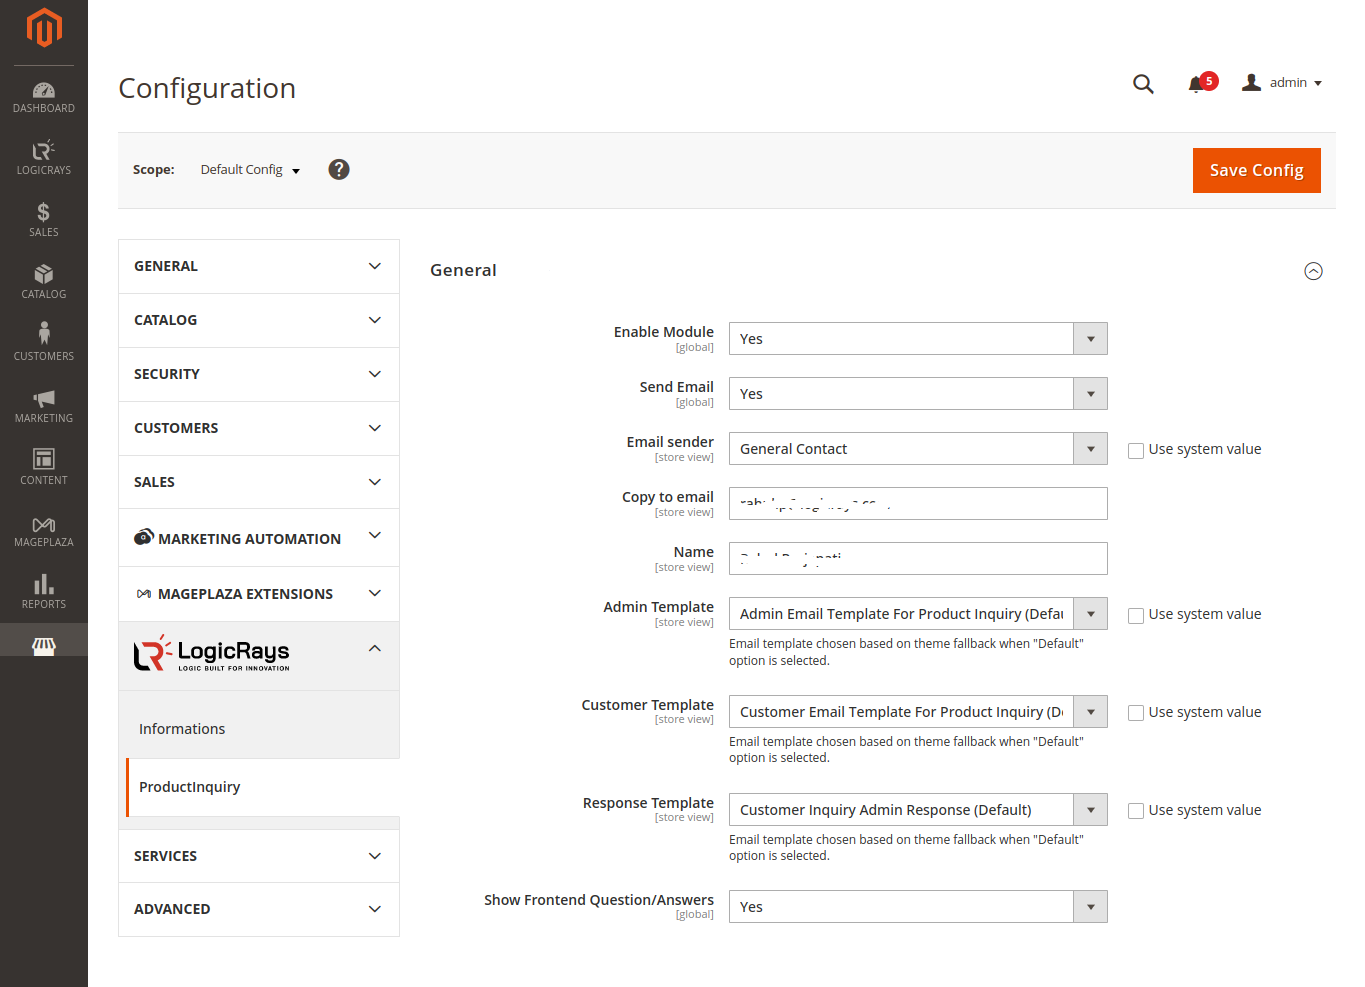
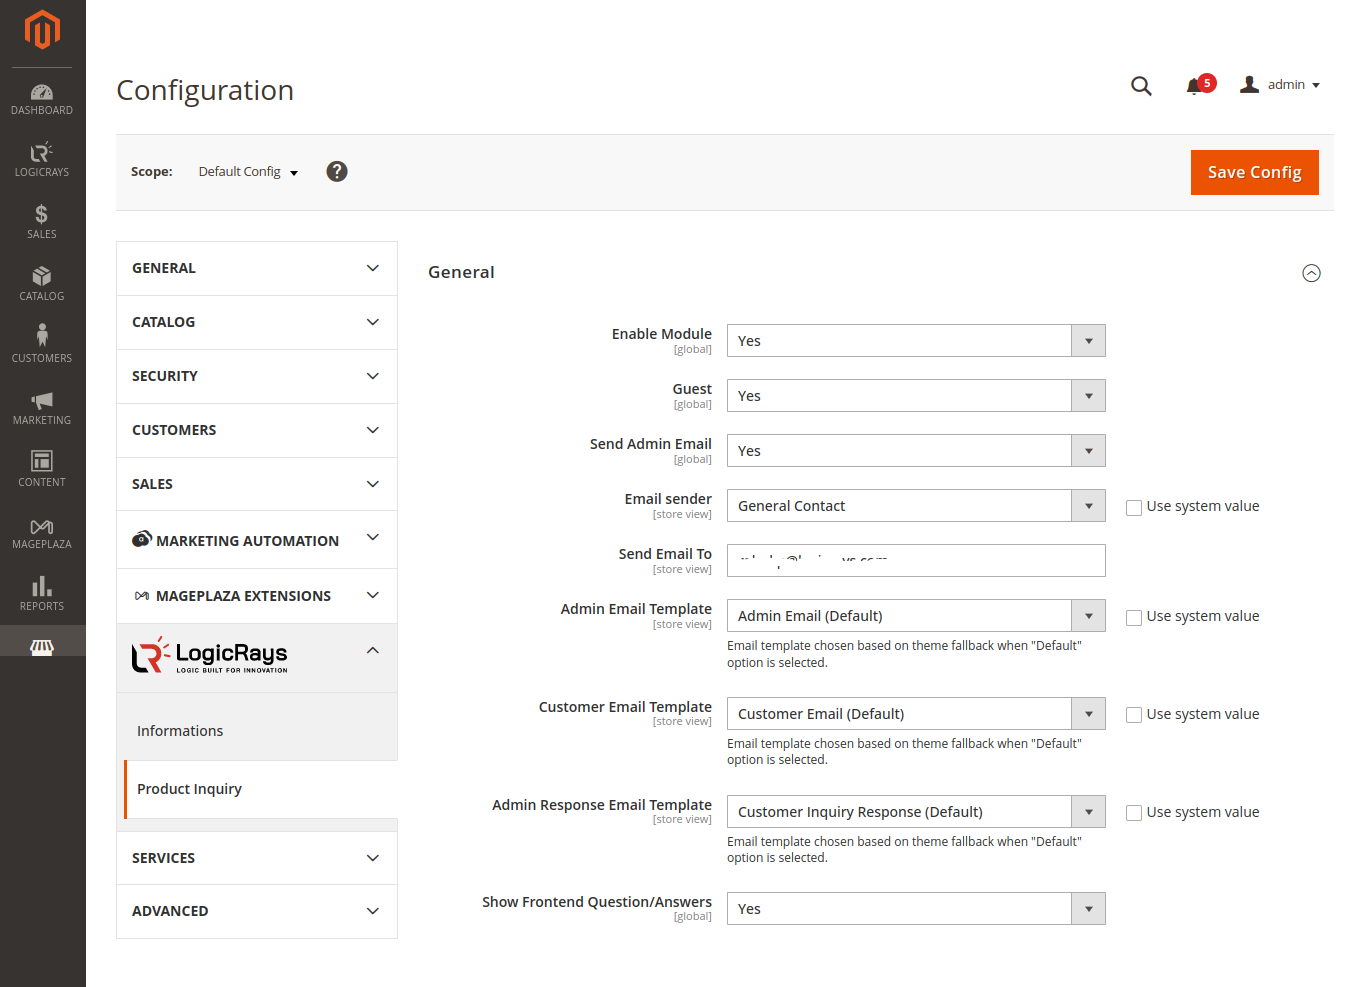
Create remaining doc of Product-Inquiry

diff --git a/docs/User_Guide/product-inquiry.rst b/docs/User_Guide/product-inquiry.rst
@@ -15,7 +15,7 @@ How to Configure
 #. Open Admin Panel, go to ``Logicrays > Settings > Configuration``
 
     .. figure:: img/product-inquiry/Dashboard-Magento-Admin.png
-        :alt: Configuration Settings.
+        :alt: Configuration Settings
 
 #. Now here you can see all the configure fields of the module. I'll explain them one by one at the end of the image.
 
@@ -25,14 +25,14 @@ How to Configure
     :guilabel:`General`
 
         * **Enable**: Choose ``Enable`` to use the functions of this module.
-        * **Send Email**: In this field, you have to choose either ``Yes`` or ``No``. If you choose ``Yes,`` then Mail Send functionality becomes active. And you have to configure the fields below.
+        * **Guest**: In this field, you have to choose either ``Yes`` or ``No``. If you choose ``Yes,`` then this functionality will work for guest customers.
+        * **Send Admin Email**: In this field, you have to choose either ``Yes`` or ``No``. If you choose ``Yes,`` then Mail Send functionality becomes active. And you have to configure the fields below.
         
             * **Email sender**: You have to select your email sender from the drop-down list.
-            * **Copy to email**: In this field, you have to enter your administrator's email address.
-            * **Name**: In this field, you have to enter your administrator's name.
-            * **Admin Template**: Select the admin template for mail.
-            * **Customer Template**: Select the customer template for mail.
-            * **Response Template**: Select the response template for mail.
+            * **Send Email To**: In this field, you have to enter your administrator's email address.
+            * **Admin Email Template**: Select the admin template for mail.
+            * **Customer Email Template**: Select the customer template for mail.
+            * **Admin Response Email Template**: Select the response template for mail.
         * **Show Frontend Question/Answers**: In this field, you have to choose either ``Yes`` or ``No``. If you choose ``Yes,`` then particular products' queries are shown in the front end. If you select ``no,`` then it will not.
     
     .. note::
@@ -47,12 +47,44 @@ How to Configure
     And open the product detail page of any product's. and scroll down your page here, you can see one tab that is ``Product Inquiry``. You must fill out a form in this tab if you have any questions.
 
     .. figure:: img/product-inquiry/Product-Detail-Page.png
-        :alt: Inquiry form
+        :alt: Product Details page
 
 #. After click on ``Send Inquiry`` button then your form successfully send the request to admin. Now you have to check Admin Request then go to ``Logicrays > ProductInquiry > ProductInquiry Details``.
+    
     see below image.
 
     .. figure:: img/product-inquiry/Dashboard-Magento-Admin_1.png
+        :alt: Dashboard-Magento-Admin
+
+#. You must be redirected to the admin side grid after clicking on the above path. see below image.
+
+    .. figure:: img/product-inquiry/Product-Admin-Grid.png
         :alt: Inquiry form
 
-#. You must be redirected to the admin side grid after clicking on the above path.
+#. By clicking the Edit button, you can now edit the record. The Edit form appears after you click the Edit button. In this form, you can edit the records and also reply to the customer's questions.
+
+    .. figure:: img/product-inquiry/Product-Inquiry-Edit-form.png
+        :alt: Product-Inquiry-Edit-form
+
+#. After saving the admin's responses, you can view them on the frontend.
+    
+    .. figure:: img/product-inquiry/Admin-Response.png
+        :alt: Admin-Response
+
+.. note::
+    After filling out the form and submitting it, one email is sent to the Customer and another to the Administrator. You can see the images below.
+
+#. Customer received mail.
+
+    .. figure:: img/product-inquiry/Customer-Mail.png
+        :alt: Customer-Mail
+
+#. Admin received mail.
+
+    .. figure:: img/product-inquiry/Admin-Mail.png
+        :alt: Admin-Mail
+
+#. Admin response mail to customer.
+
+    .. figure:: img/product-inquiry/Admin-Mail-Response.png
+        :alt: Admin-Mail-Response
